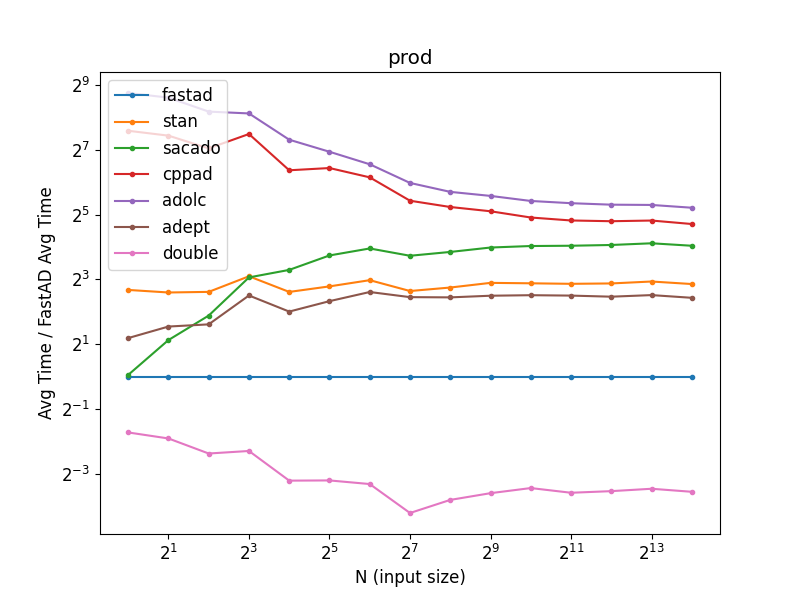
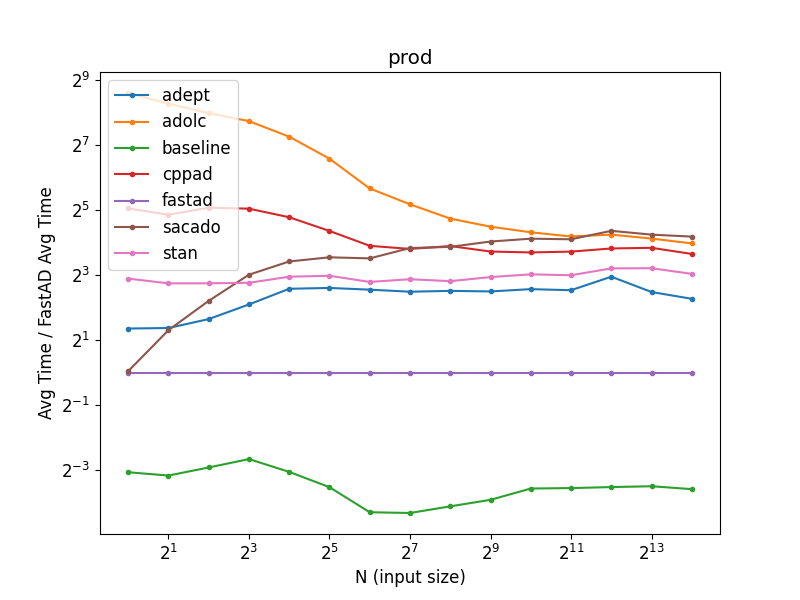
Rewrite script with new build structure

diff --git a/analyze/analyze.py b/analyze/analyze.py
@@ -1,21 +1,30 @@
+import io
 import os
 import matplotlib.pyplot as plt
 import pandas as pd
+from subprocess import check_output
 
+# Path definitions
 figpath = '../docs/figs'
-csvpath = '../build/benchmark'
-csvfiles = [f for f in os.listdir(csvpath)
-                if os.path.isfile(os.path.join(csvpath, f)) and
-                   f.endswith('_eval.csv')]
+libpath = '../build/benchmark'
+datapath = '../docs/data'
+
+# List of library names
+libs = ['adept', 'adolc', 'baseline', 'cppad', 'fastad', 'sacado', 'stan']
+
+# List of test names
+tests = ['log_sum_exp', 'matrix_product', 'normal_log_pdf', 'prod', 'prod_iter',
+         'regression', 'stochastic_volatility', 'sum', 'sum_iter']
+
+# Make plot font size bigger
 plt.rcParams["font.size"] = "12"
 
-def analyze(path, name):
-    print(path)
-    df = pd.read_csv(path)
-    df.set_index('N', inplace=True)
-    fastad_col = df['fastad']
-    df = df.apply(lambda col: col / fastad_col)
-    df.reset_index(level=df.index.names, inplace=True)
+# Creates path to test for lib
+def bin_path(libname, testname):
+    return os.path.join(libpath, libname, ''.join([libname, '_', testname]))
+
+# Plot result of test
+def plot_test(df, name):
     axes = df.plot(x='N',
                    kind='line',
                    marker='.',
@@ -28,5 +37,34 @@ def analyze(path, name):
     axes.set_yscale('log', base=2)
     plt.savefig(os.path.join(figpath, name + '_fig.png'))
 
-for f in csvfiles:
-    analyze(os.path.join(csvpath, f), f.replace('_eval.csv', ''))
+# Run test for each library
+def run(testname):
+    df = pd.DataFrame()
+
+    # run test for each lib and save times
+    for lib in libs:
+        path = bin_path(lib, testname)
+        print(path)
+
+        # run and get output from each
+        args = (path, "--benchmark_format=csv")
+        data = io.StringIO(check_output(args).decode("utf-8"))
+        df_lib = pd.read_csv(data, sep=',')
+        df_lib.set_index('N', inplace=True)
+        df[lib] = df_lib['real_time']
+
+    # save absolute time
+    data_path = os.path.join(datapath, testname + ".csv")
+    df.to_csv(data_path)
+
+    # create relative time to fastad
+    fastad_col = df['fastad'].copy()
+    df = df.apply(lambda col: col / fastad_col)
+    df.reset_index(level=df.index.names, inplace=True)
+
+    return df
+
+# For each test, run and plot
+#for test in tests:
+test = 'regression'
+plot_test(run(test), test)

diff --git a/benchmark/functor/prod.hpp b/benchmark/functor/prod.hpp
@@ -6,6 +6,8 @@ namespace adb {
 
 struct ProdFuncBase: FuncBase
 {
+    using base_t = FuncBase;
+
     template <class T>
     T operator()(const Eigen::Matrix<T, Eigen::Dynamic, 1>& x) const
     {
@@ -26,6 +28,12 @@ struct ProdFuncBase: FuncBase
     }
 
     std::string name() const { return "prod"; }
+
+    void fill(Eigen::VectorXd& x) 
+    {
+        base_t::fill(x);
+        x.array() += 1.;
+    }
 };
 
 } // namespace adb
